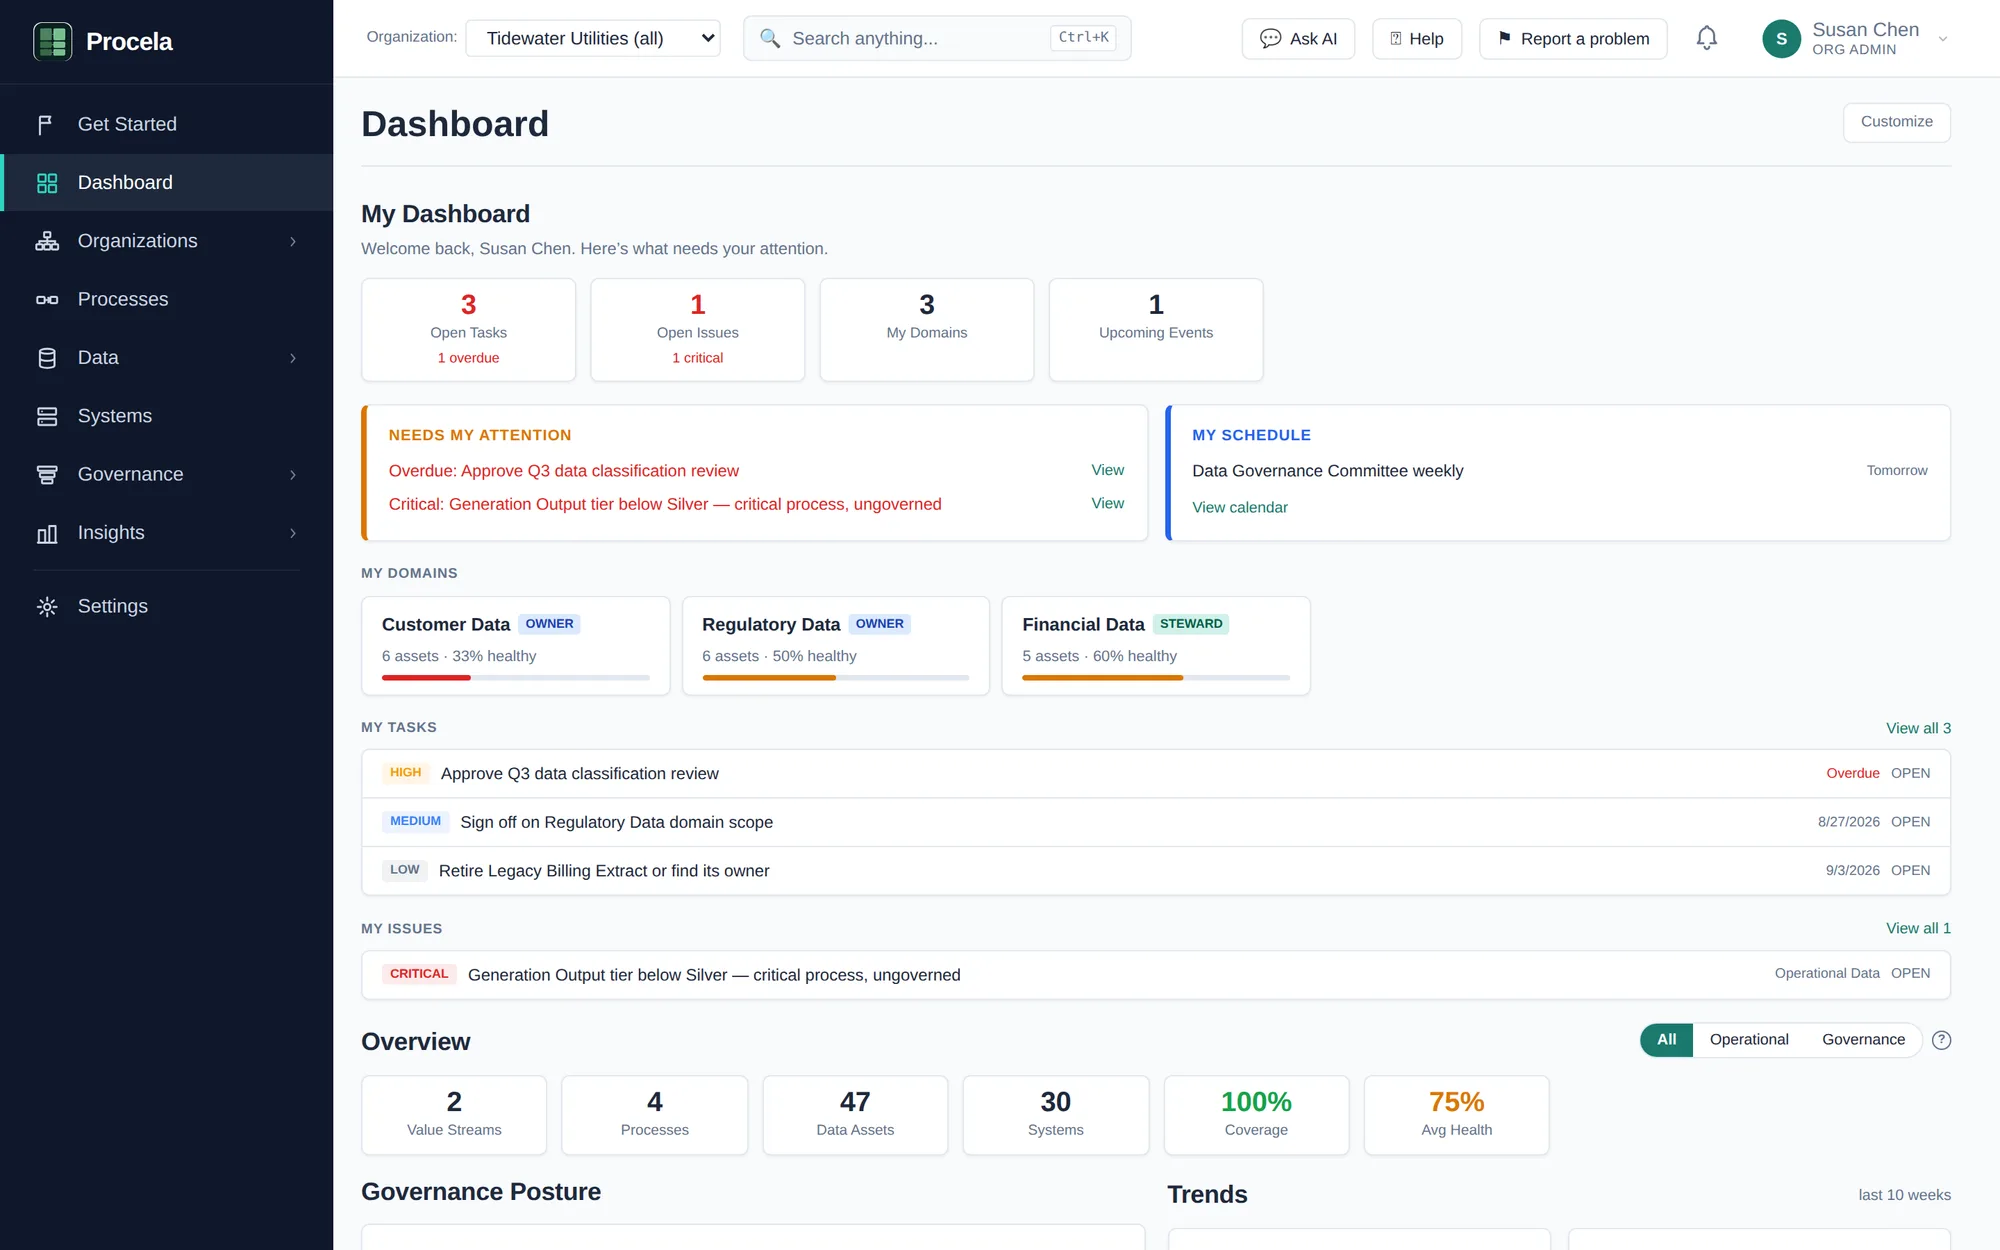
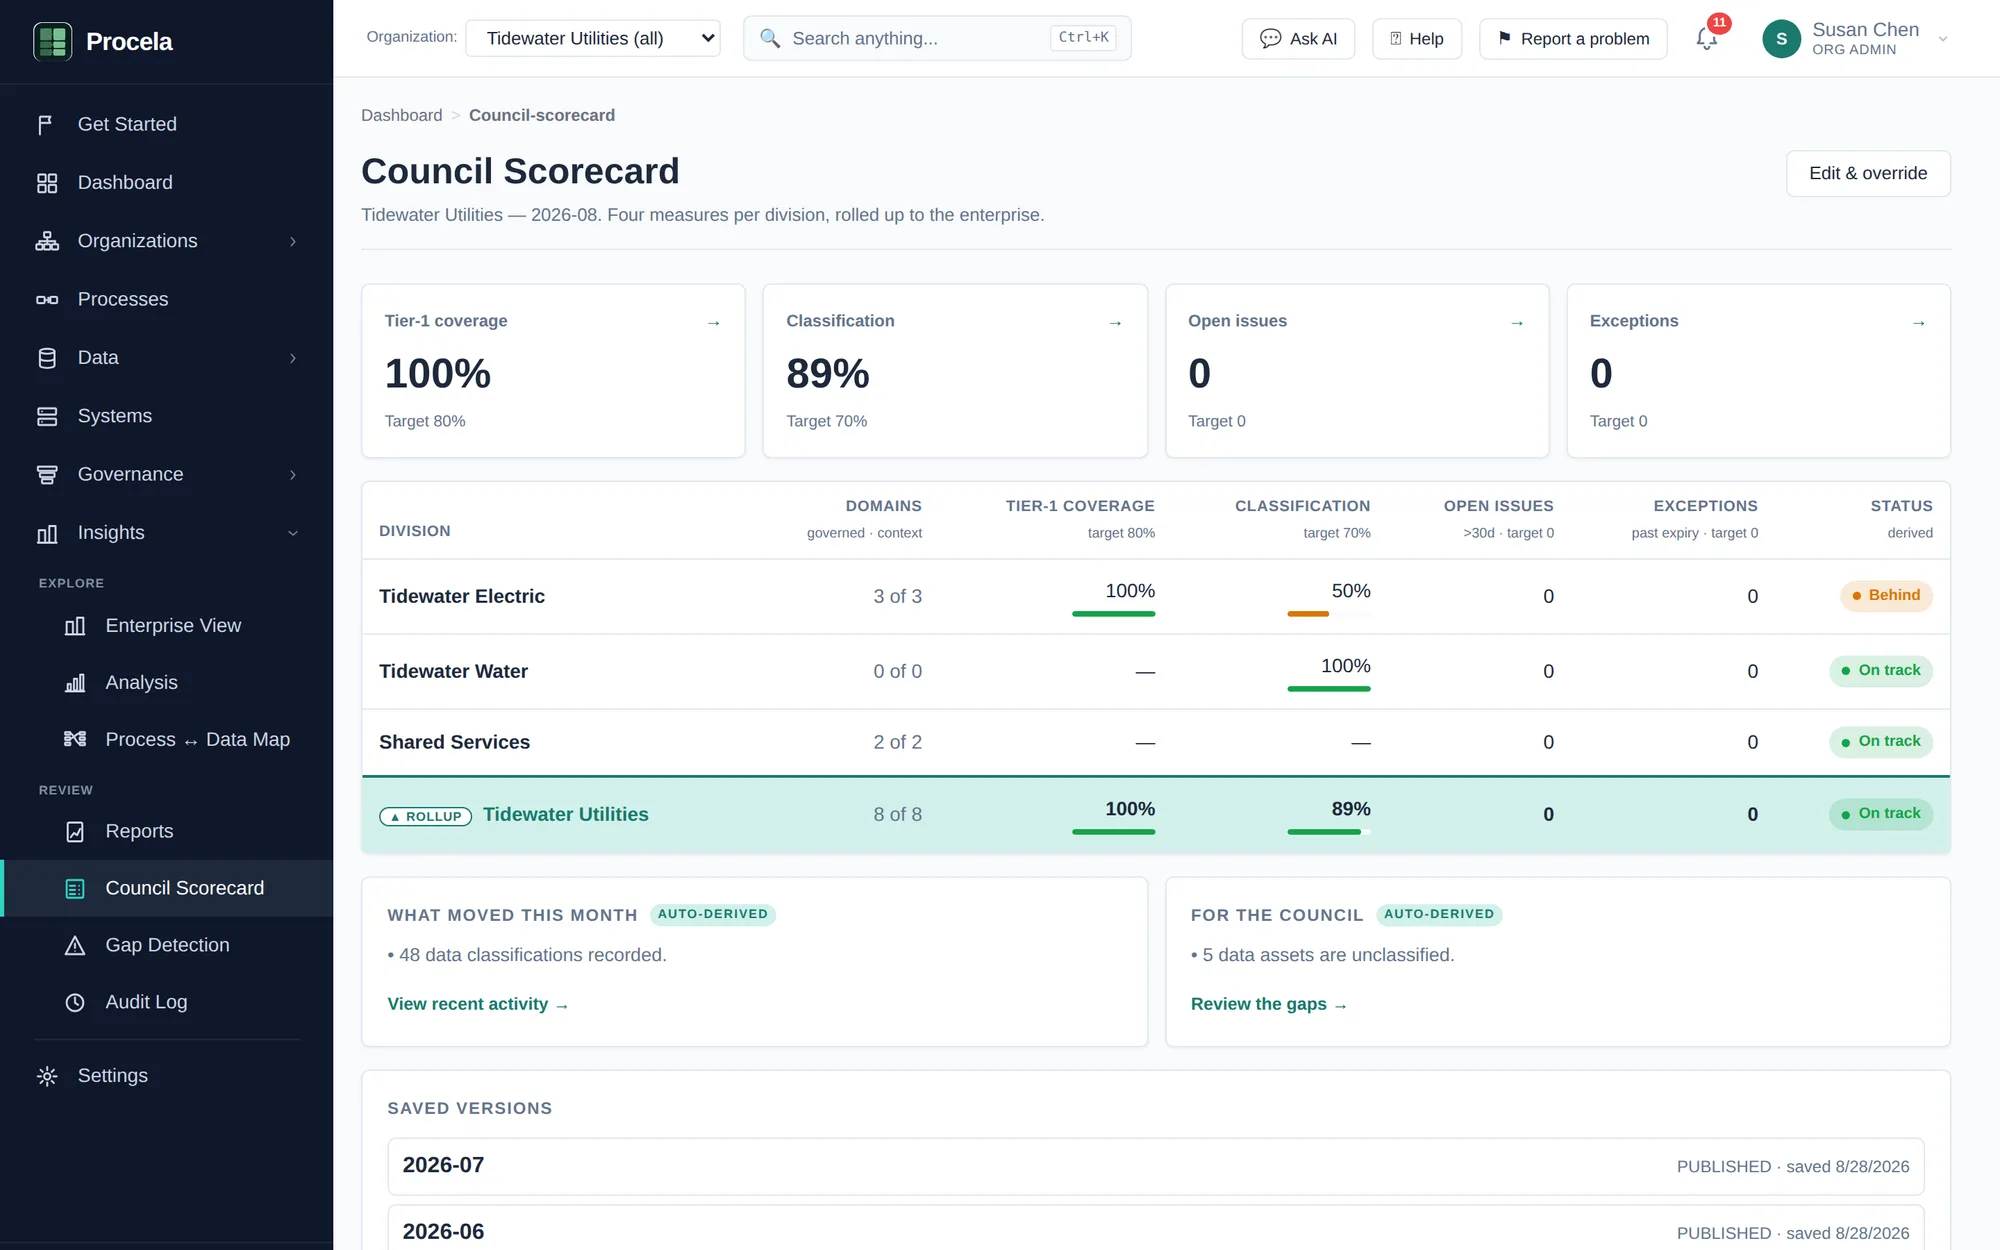
Homepage hero: use the Governance Council Scorecard (#48)
Swap the hero screenshot from the personalized dashboard to the new
Governance Council Scorecard — an executive view rolling four measures
(tier-1 coverage, classification, open issues, exceptions) up from each
division to the enterprise, with auto-derived status, a what-moved /
for-the-council narrative, and saved monthly snapshots. Populated with
example data. Update the alt text to match.

Claude-Session: https://claude.ai/code/session_01KJa1GsMMHLvb8vFejFkGtX

diff --git a/app/page.tsx b/app/page.tsx
@@ -127,7 +127,7 @@ export default function Home() {
           <div className="hero-shot">
             <BrowserFrame
               src="/screenshots/hero.webp"
-              alt="The Procela dashboard, personalized for a data governance leader — a My Dashboard view surfacing an overdue approval and a critical data-quality issue needing attention, an upcoming governance committee meeting, owned data domains, and an organization-wide overview of data assets, systems, and coverage."
+              alt="The Procela Governance Council Scorecard — an executive view rolling four measures (tier-1 coverage, classification, open issues, and exceptions) up from each division to the enterprise, with auto-derived status badges, a 'what moved' and 'for the council' narrative, and a record of saved monthly snapshots."
               priority
             />
           </div>
